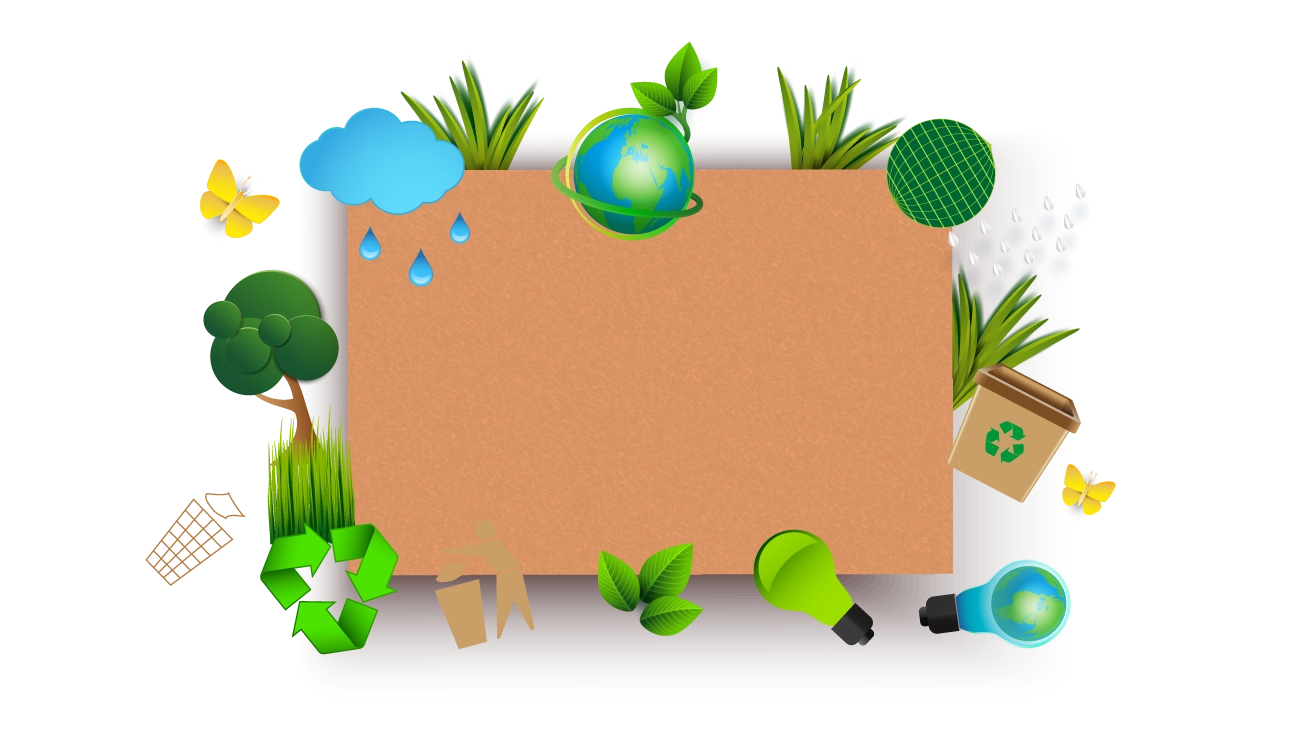
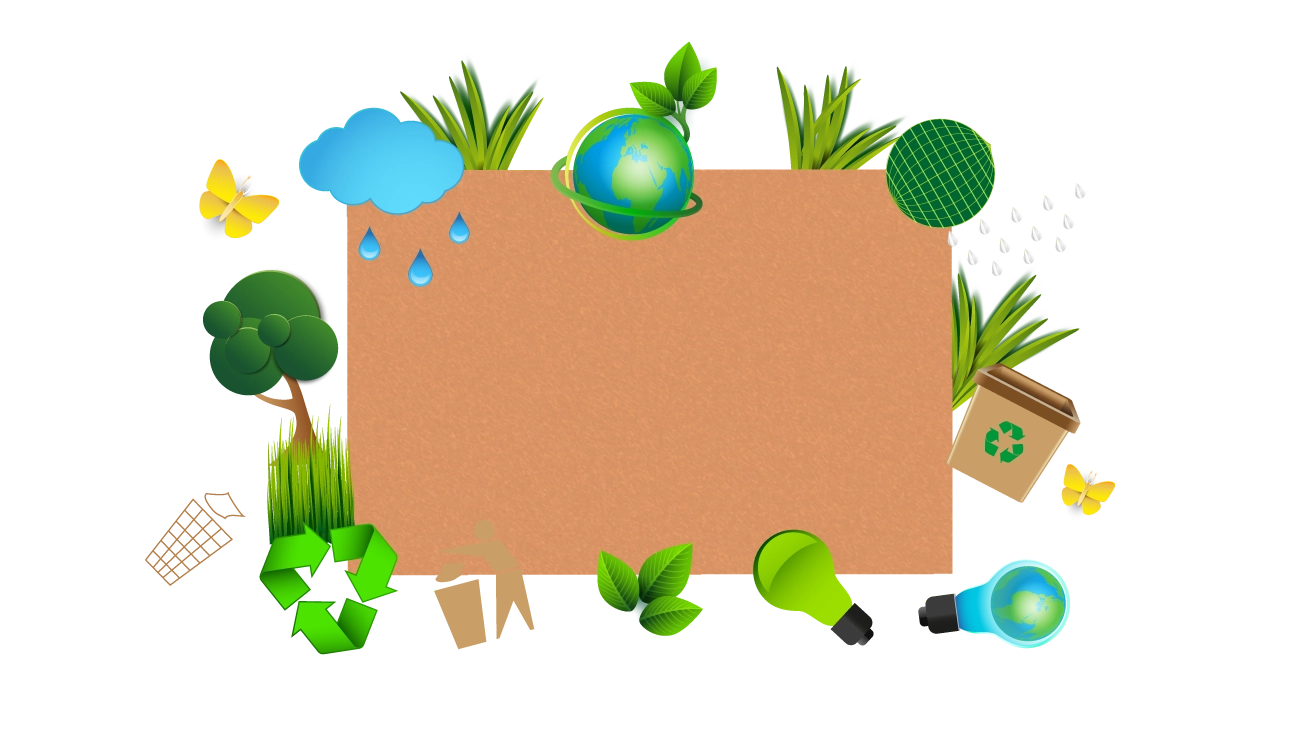
Fixed landing image quality issue

diff --git a/assets/css/style.css b/assets/css/style.css
@@ -71,7 +71,7 @@ body {
 .header-container {
     height: calc(100vh - 10vh);
     min-height: 500px;
-    background-image: url('../images/bg.png');
+    background-image: url('../images/bg.webp');
     background-size: cover;
     background-position: center;
     background-repeat: no-repeat;
